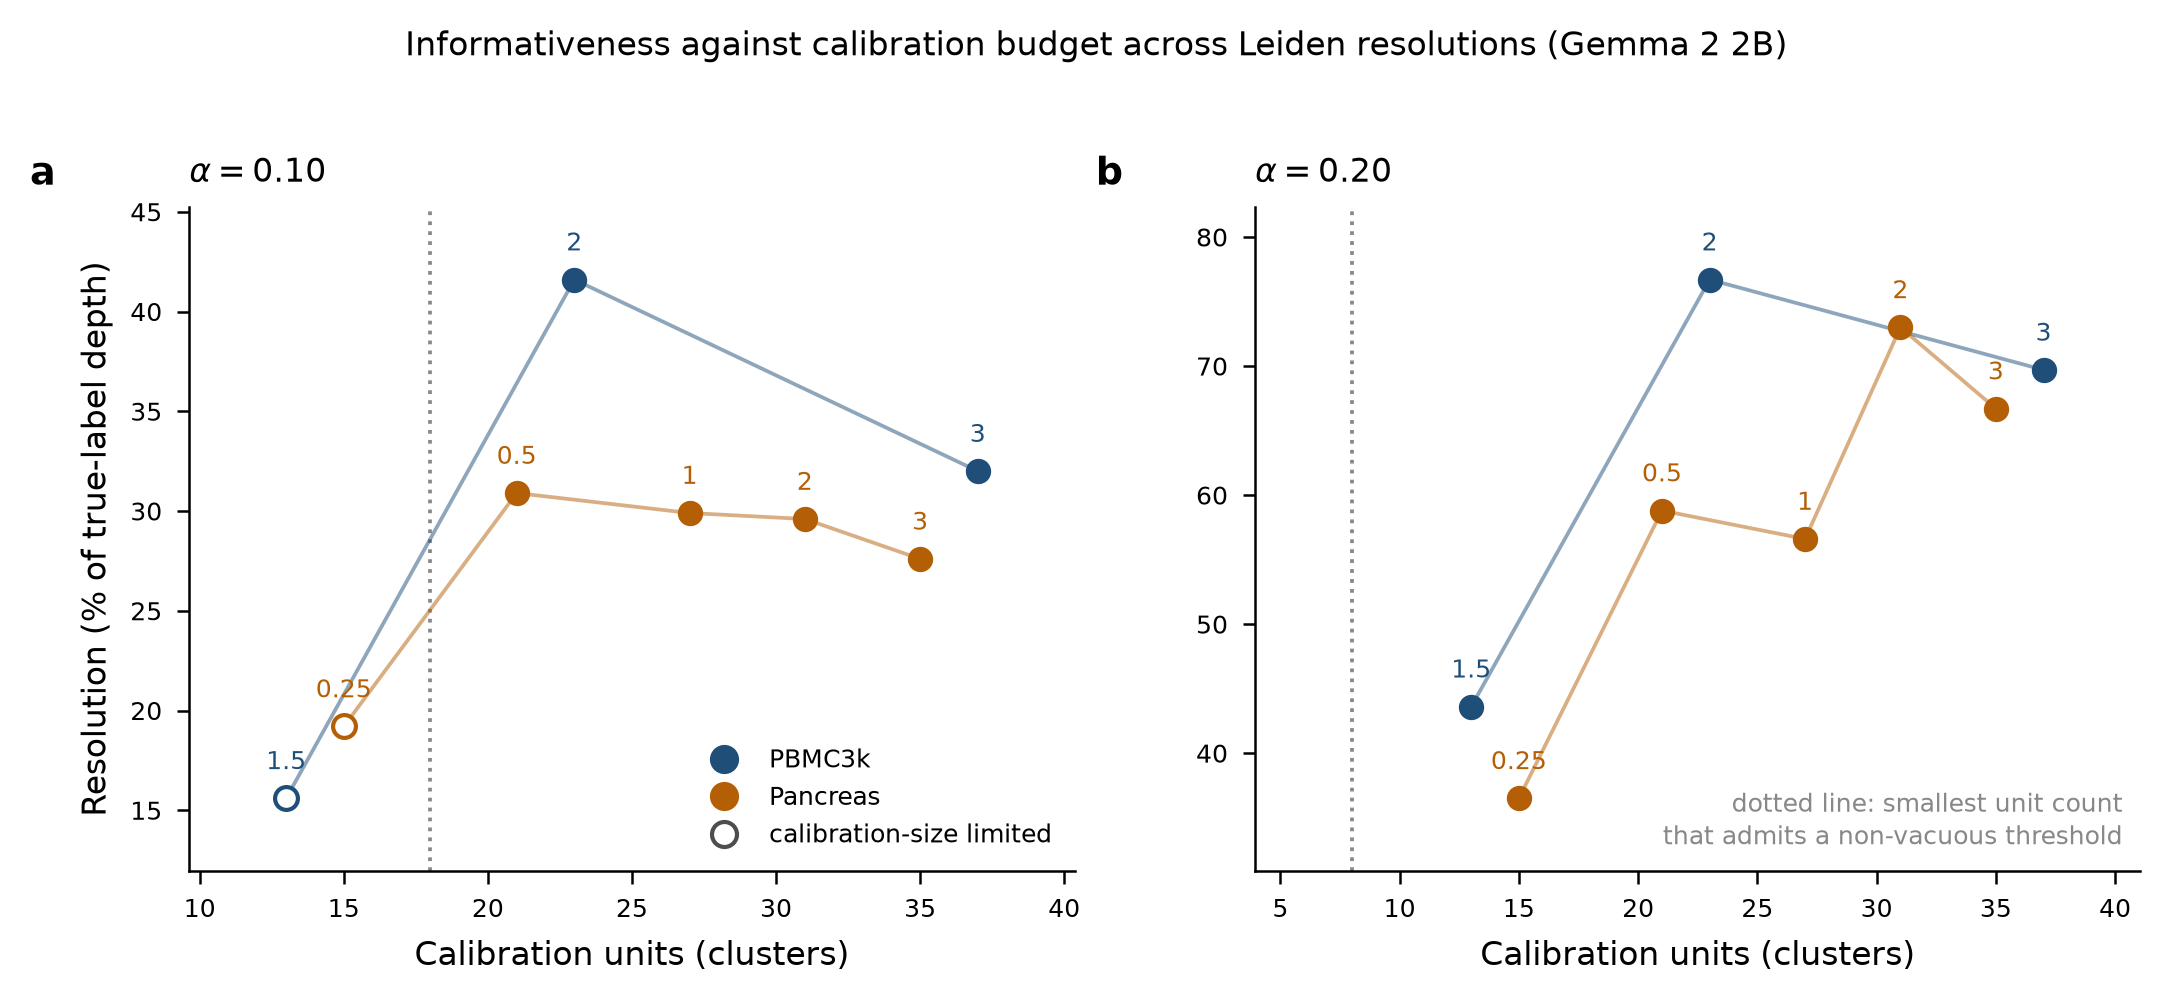
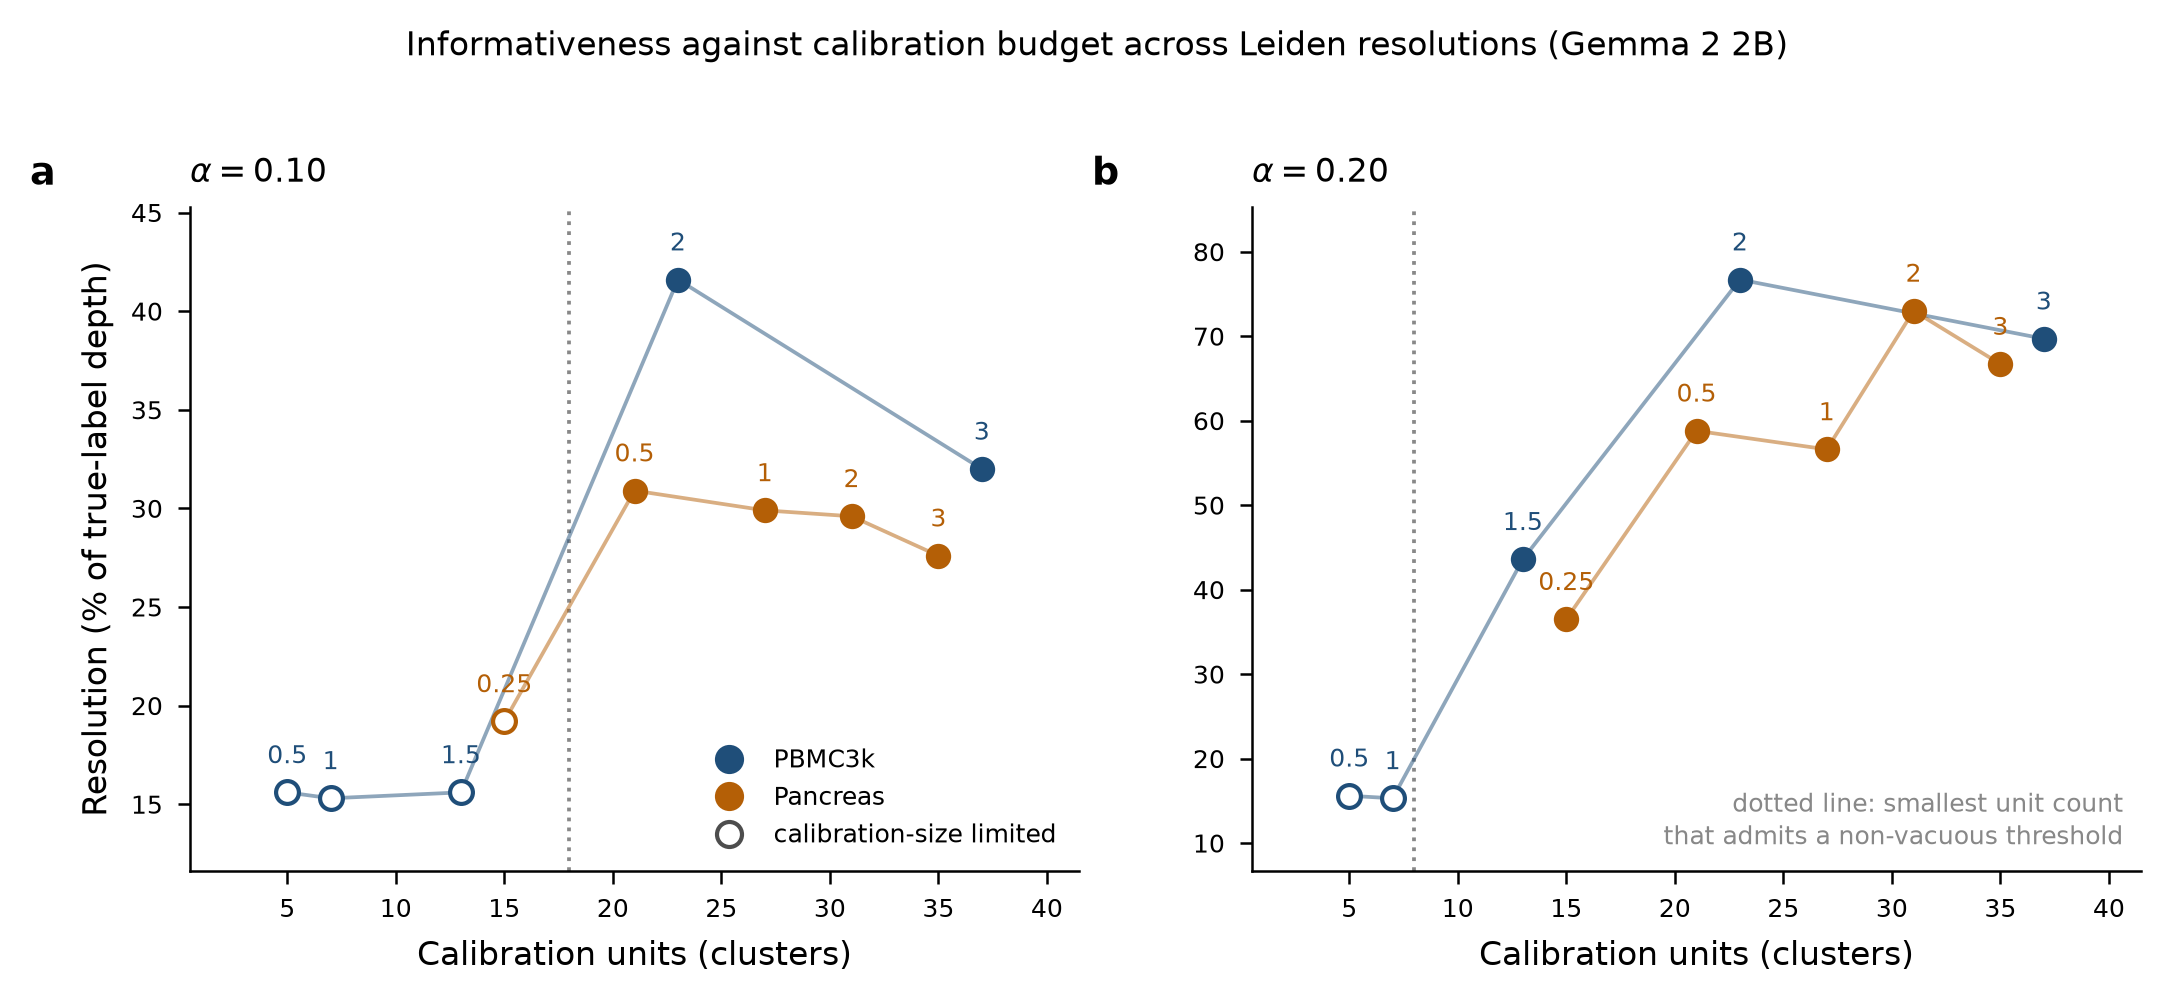
Complete the resolution sweep to five settings per dataset and record its clustering scope
PBMC3k is now run at all five Leiden settings. The two coarsest, 0.5 and 1.0, leave 2 and 3
calibration units and are calibration-size limited at both target levels: the prediction set is
the full 14-label space with coverage 1.000 and resolution 15.6% and 15.3%. They carry the
highest point accuracy on that dataset, top-1 0.714 at resolution 1.0 against 0.565 at 2.0 and
0.514 at 3.0, with no budget to spend it on. Table, text and figure now cover the same ten
settings.

Scope of the sweep's clusterings: prep_res.py rebuilds the embedding and the neighbour graph
from the stored highly-variable-gene matrix, while prep_cells.py leidens the graph shipped with
the processed PBMC3k object and, for the pancreas, a 40-component decomposition. At the same
resolution parameter of 3.0 the partitions differ - 37 units at mean purity 0.934 against 36 at
0.953 on PBMC3k, 35 at 0.992 against 35 at 0.991 on the pancreas - so the sweep's resolution 3.0
is a second clustering at that parameter rather than the published one, and the sweep is read
within itself. The published clustering enters only through the paired build comparison, whose
votes now sit in votes/paper_clustering/. README records both points.

run_local_v4r.py records the Leiden resolution in the vote file from the cluster filename, so a
fresh clone reproduces the released vote files field for field.

diff --git a/scripts/make_fig_res.py b/scripts/make_fig_res.py
@@ -1,0 +1,35 @@
+
+import matplotlib as mpl, matplotlib.pyplot as plt, numpy as np, pandas as pd
+from matplotlib.lines import Line2D
+d = pd.read_csv("out/cozunurluk_duyarlilik.csv")
+apply_figure_style(sizes=(8,7,6))
+COL = {"pbmc":"#1f4e79","panc":"#b45f06"}; NM = {"pbmc":"PBMC3k","panc":"Pancreas"}
+fig, axes = plt.subplots(1, 2, figsize=(7.2, 3.2))
+for ax, a in zip(axes, (0.10, 0.20)):
+    s = d[d.alpha == a]
+    for ds in ["pbmc", "panc"]:
+        g = s[s.veri == ds].sort_values("kume")
+        ok = g[g.uygun]; no = g[~g.uygun]
+        ax.plot(g.kume, g.cozunurluk, color=COL[ds], lw=0.9, alpha=0.5, zorder=2)
+        ax.scatter(ok.kume, ok.cozunurluk, s=30, color=COL[ds], zorder=3)
+        ax.scatter(no.kume, no.cozunurluk, s=30, facecolors="white", edgecolors=COL[ds],
+                   linewidths=1.0, zorder=3)
+        for _, r in g.iterrows():
+            ax.annotate(f"{r.leiden:g}", (r.kume, r.cozunurluk), textcoords="offset points",
+                        xytext=(0, 7), ha="center", fontsize=6, color=COL[ds])
+    ax.axvline(int(np.ceil(1/a)) * 2 - 2, color=META_GREY, ls=":", lw=0.9, zorder=1)
+    ax.set_xlabel("Calibration units (clusters)")
+    ax.set_title(f"$\\alpha={a:.2f}$")
+    ax.margins(0.14)
+axes[0].set_ylabel("Resolution (% of true-label depth)")
+axes[0].legend(handles=[Line2D([],[],marker="o",ls="",color=COL["pbmc"],label="PBMC3k"),
+                        Line2D([],[],marker="o",ls="",color=COL["panc"],label="Pancreas"),
+                        Line2D([],[],marker="o",ls="",mfc="white",mec="0.3",label="calibration-size limited")],
+               frameon=False, loc="lower right", fontsize=6)
+axes[1].text(0.98, 0.03, "dotted line: smallest unit count\nthat admits a non-vacuous threshold",
+             transform=axes[1].transAxes, fontsize=6, color=META_GREY, va="bottom", ha="right", linespacing=1.3)
+panel_letter(axes[0], "a"); panel_letter(axes[1], "b")
+fig.suptitle("Informativeness against calibration budget across Leiden resolutions (Gemma 2 2B)",
+             fontsize=8, y=1.02)
+fig.tight_layout(); fig.savefig("fig_resolution.png", dpi=300, bbox_inches="tight")
+print("kaydedildi")

diff --git a/scripts/ressens.py b/scripts/ressens.py
@@ -3,8 +3,9 @@ import json, glob, numpy as np, pandas as pd
 exec(open("recompute.py").read().split('if __name__')[0], globals())
 
 rows = []
-for f in sorted(glob.glob("votes_res/haiku45_*.json")):
-    V = json.load(open(f)); ds = V["dataset"]; res = V["resolution"]
+for f in sorted(glob.glob("votes_res/*_r*.json")):
+    V = json.load(open(f))
+    ds, res, mdl = V["dataset"], V["resolution"], V["model"]
     KL = pd.read_csv(f"handoff/clusters_{ds}_r{res}.csv"); KL["cluster"] = KL.cluster.astype(str)
     TRUTH = dict(zip(KL.cluster, KL.true_type))
     labs, lcl, D, lcad = load_space(ds)
@@ -13,11 +14,12 @@ for f in sorted(glob.glob("votes_res/haiku45_*.json")):
     n = len(Y); ncal = n // 2
     t1 = top1(V, TRUTH, order); col, tot, rate = collapse_rate(V)
     for a in (0.10, 0.20):
-        need = int(np.ceil(1/a)) - 1
+        need = int(np.ceil(1 / a)) - 1
         r, _ = evaluate(P, Y, D, lcad, lcl, a, "onto")
-        rows.append(dict(veri=ds, cozunurluk=res, kume=n, n_cal=ncal, alpha=a,
-                         uygun=bool(ncal >= need), saflik=round(float(KL.purity.mean()), 3),
-                         top1=t1, cokme=rate, **r))
+        rows.append({"model": mdl, "veri": ds, "leiden": res, "kume": n, "n_cal": ncal,
+                     "alpha": a, "uygun": bool(ncal >= need),
+                     "saflik": round(float(KL.purity.mean()), 3),
+                     "top1": t1, "cokme": rate, **r})
         print(rows[-1], flush=True)
 pd.DataFrame(rows).to_csv("out/cozunurluk_duyarlilik.csv", index=False)
 print("TAMAM", len(rows), "satir")

diff --git a/scripts/run_local_v4r.py b/scripts/run_local_v4r.py
@@ -1,7 +1,7 @@
 """run_local_v4.py ile BIREBIR ayni istem ve kisitlama; yalniz kume dosyasi parametrik.
 Fark yok: ayni SYS metni, ayni prompt() (her iki veri setinde de top_expressed),
 ayni response_format JSON semasi, ayni ornekleme ayarlari."""
-import json, sys, time, collections, os
+import json, sys, time, collections, os, re
 import pandas as pd
 from llama_cpp import Llama
 model_path, chat_format, tag, ds, clpath, outpath = sys.argv[1:7]
@@ -36,6 +36,8 @@ for r in cl.itertuples():
         except Exception: bad += 1
     out.append({"cluster": str(r.cluster), "counts": dict(c)})
 meta = json.load(open(outpath + ".meta")) if os.path.exists(outpath + ".meta") else {}
+m = re.search(r"_r([0-9.]+)\.csv$", clpath)          # cozunurluk kume dosyasi adindan
+if m: meta.setdefault("resolution", float(m.group(1)))
 json.dump({"model": tag, "dataset": ds, "K": K, "bad": bad, "seconds": round(time.time() - t0, 1),
            "clusters": out, **meta}, open(outpath, "w"))
 print(f"BITTI {ds}/{tag} {clpath} bad={bad} sure={time.time()-t0:.0f}s", flush=True)

diff --git a/README.md b/README.md
@@ -44,6 +44,7 @@ scripts/
 labels/                   the 14-label spaces and their Cell Ontology mappings
 votes/                    raw per-cluster vote counts for every run (K = 10)
   resolution_sweep/       votes for the clustering-resolution sweep, one file per setting
+  paper_clustering/       the published clustering re-voted on the current build
 results/                  every table reported in the manuscript
 figures/                  the six manuscript figures
 ```
@@ -150,9 +151,18 @@ how far one configuration moves between two builds (coverage is reproduced; set 
 resolution, top-1 accuracy and the vote collapse rate move more). The released votes, not the
 binary, are what make these tables re-derivable.
 
-The resolution sweep in `votes/resolution_sweep/` was produced entirely within one build and
-is read within itself; `gemma2-2b_pbmc_PAPER.json` is the same configuration as the main
-analysis run on that build, and is the paired measurement behind the reproducibility table.
+The resolution sweep in `votes/resolution_sweep/` was produced entirely within one build and is
+read within itself; `votes/paper_clustering/gemma2-2b_pbmc_PAPER.json` is the published
+clustering re-voted on that same build, and is the paired measurement behind the
+reproducibility table.
+
+One scope note on the sweep. `prep_res.py` rebuilds the embedding and the nearest-neighbour
+graph from the stored highly-variable-gene matrix, while `prep_cells.py` — which produced the
+clustering used everywhere else — leidens the graph that ships with the processed PBMC3k object
+and, for the pancreas, a 40-component decomposition. The resolution parameter agrees at 3.0 but
+the partition does not: 37 units at mean purity 0.934 against 36 at 0.953 on PBMC3k, and 35 at
+0.992 against 35 at 0.991 on the pancreas. Resolution 3.0 in `cozunurluk_duyarlilik.csv` is a
+second clustering at the same parameter value, not the published one.
 
 ## Not included
 
